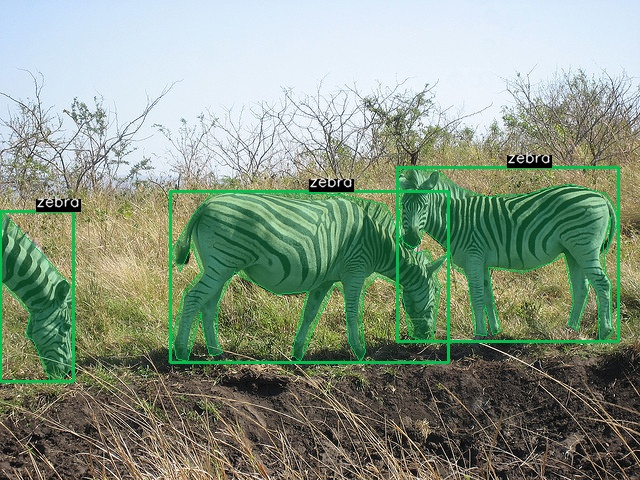
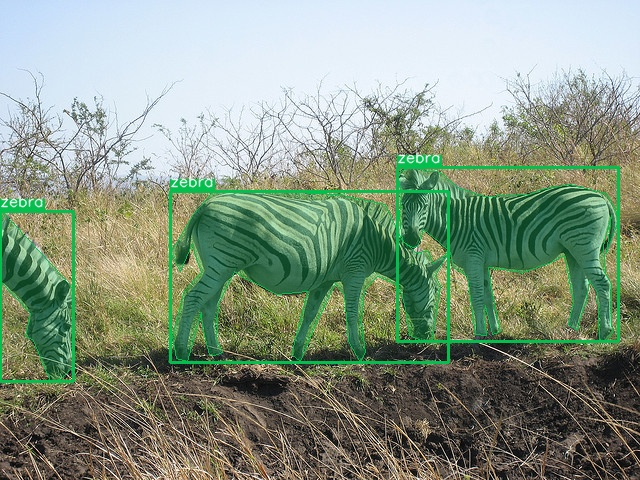
feat(visualize): adopt industry-standard label positioning
- Label horizontal alignment: top-center → top-left (matches Ultralytics,
  Supervision, Detectron2)
- Label background: black → class color (visual association with
  bbox/polygon color)
- Edge flip: below bbox → inside bbox at top-left (matches YOLOv8
  fallback behavior)

diff --git a/dataflow/visualize/base.py b/dataflow/visualize/base.py
@@ -448,15 +448,14 @@ class BaseVisualizer(ABC):
             f"class_name={render_ann.class_name}, color={color}"
         )
 
-        # Determine label position (top-center of bbox;
+        # Determine label position (above bbox top-left;
         # fall back to polygon first point only if no bbox could be computed)
         label_pos = None
         label_bbox = None
         if render_ann.bbox is not None:
             x1, y1, x2, y2 = render_ann.bbox
             label_bbox = (x1, y1, x2, y2)
-            cx = x1 + (x2 - x1) // 2
-            label_pos = (cx, y1 - self.config["text_padding"])
+            label_pos = (x1, y1 - self.config["text_padding"])
 
         if render_ann.bbox is not None:
             self._draw_bbox(image, render_ann.bbox, color)
@@ -557,7 +556,7 @@ class BaseVisualizer(ABC):
         """Draw text label.
 
         Args:
-            position: (x, y) baseline position for the text (top-center of bbox).
+            position: (x, y) baseline position for the text (above bbox top-left).
             bbox: Optional bbox (x1, y1, x2, y2) for edge-flip logic.
         """
         x, y = int(position[0]), int(position[1])
@@ -575,11 +574,11 @@ class BaseVisualizer(ABC):
 
         img_height, img_width = image.shape[:2]
 
-        # Edge flip: if text extends above image top, flip below bbox
+        # Edge flip: if text extends above image top, flip inside bbox
         text_top = y - text_height + baseline
         if bbox is not None and text_top < 0:
-            _, _, _, y2 = bbox
-            y = y2 + self.config["text_padding"] + text_height
+            _, y1, _, _ = bbox
+            y = y1 + text_height + self.config["text_padding"]
 
         # Background rectangle: covers from text top (y - text_height + baseline)
         # to text bottom (y + baseline)
@@ -595,7 +594,7 @@ class BaseVisualizer(ABC):
 
         if x1 < x2 and y1 < y2_rect:
             try:
-                cv2.rectangle(image, (x1, y1), (x2, y2_rect), (0, 0, 0), -1)
+                cv2.rectangle(image, (x1, y1), (x2, y2_rect), color, -1)
             except Exception as e:
                 self.logger.warning(f"Failed to draw text background: {e}")
 
